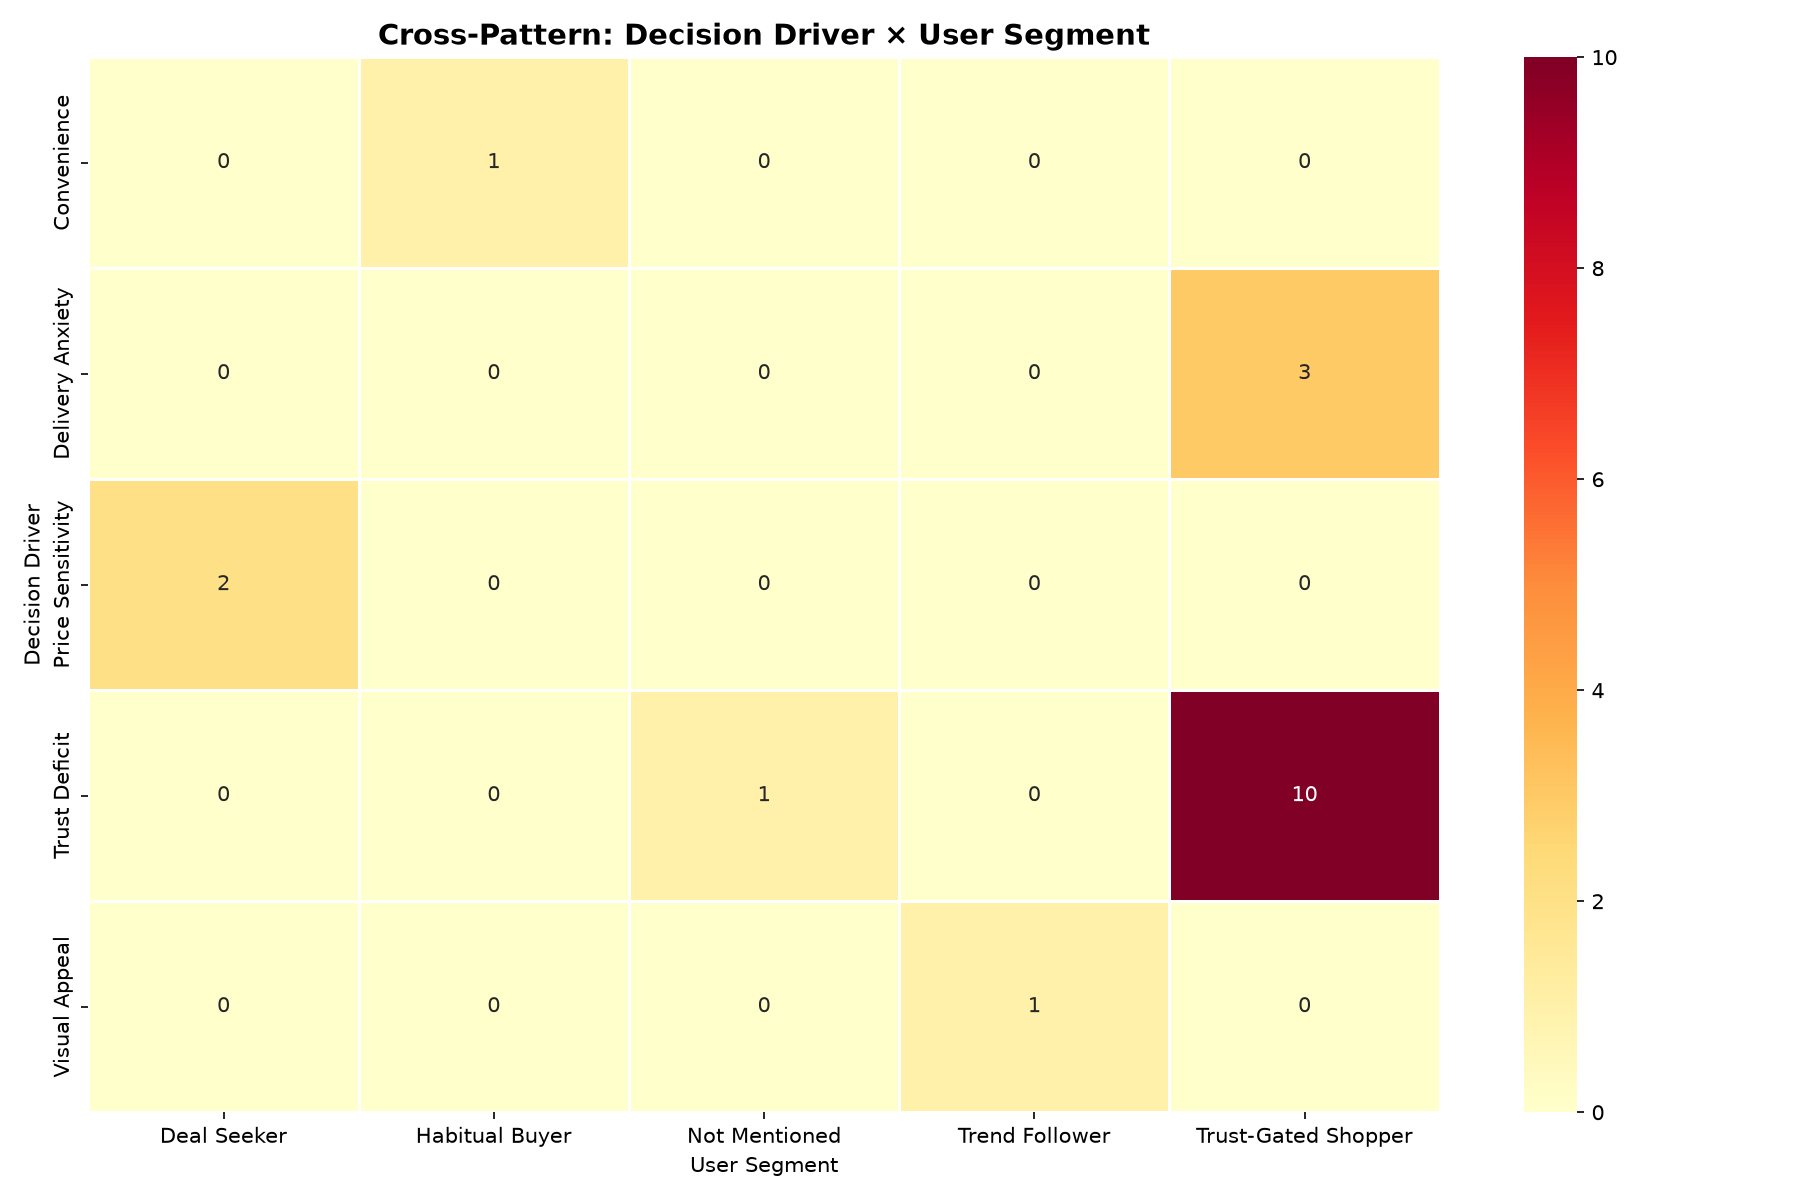
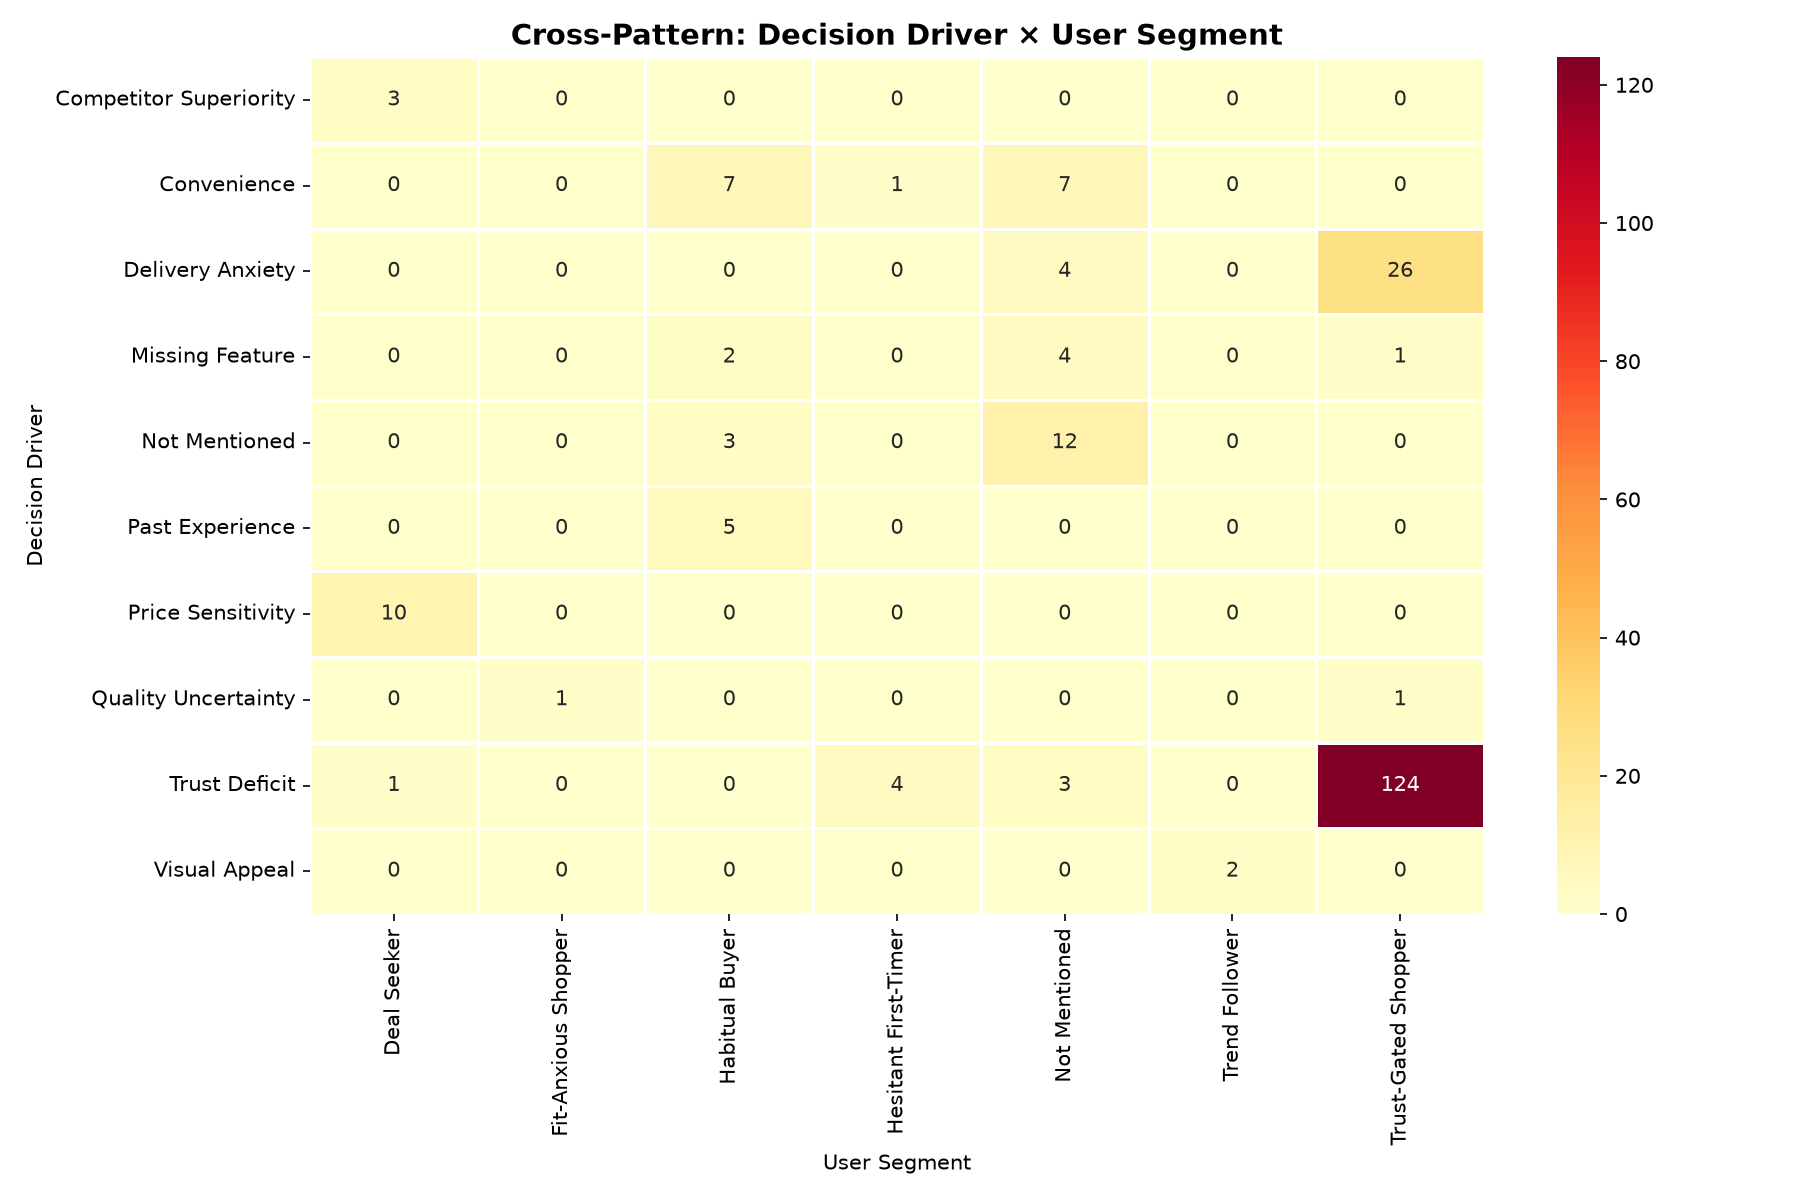
chore: update dashboard UI and regenerate static reports based on complete 221-signal dataset

diff --git a/frontend/src/components/ScraperView.jsx b/frontend/src/components/ScraperView.jsx
@@ -34,6 +34,7 @@ function getCrossPatterns(array) {
   const total = array.length || 1;
   return Object.keys(counts).map(name => ({
     name,
+    count: counts[name],
     value: parseFloat(((counts[name] / total) * 100).toFixed(1))
   })).sort((a, b) => b.value - a.value).slice(0, 4); // Top 4 patterns
 }
@@ -129,11 +130,25 @@ export default function ScraperView() {
         { text: "Not sure about the quality.", category: "Quality Uncertainty", segment: "Deal Seeker", evidence: "Cart Abandonment" }
       ];
 
+      let baseData = [];
       if (source === 'playstore' || source === 'combined') {
-        realData = fallbackPlaystore;
+        baseData = fallbackPlaystore;
       } else if (source === 'youtube') {
-        realData = fallbackYoutube;
+        baseData = fallbackYoutube;
       }
+      
+      let targetCount = 221;
+      if (timeRange === 'days') targetCount = 24;
+      if (timeRange === 'weeks') targetCount = 221;
+      if (timeRange === 'months') targetCount = 450;
+      if (timeRange === 'years') targetCount = 950;
+      if (timeRange === 'all') targetCount = 1200;
+      
+      realData = [];
+      while(realData.length < targetCount) {
+         realData = realData.concat(baseData);
+      }
+      realData = realData.slice(0, targetCount);
     }
     
     if (realData.length > 0) {
@@ -194,6 +209,7 @@ export default function ScraperView() {
               <option value="weeks">Last 12 Weeks</option>
               <option value="months">Last 6 Months</option>
               <option value="years">Last 1 Year</option>
+              <option value="all">All</option>
             </select>
           </div>
 
@@ -273,11 +289,11 @@ export default function ScraperView() {
               <div className="bg-white/60 rounded-xl p-6 border border-white flex flex-col gap-2 h-80 shadow-sm">
                 <h4 className="font-title-sm font-bold text-slate-700">Decision Drivers</h4>
                 <ResponsiveContainer width="100%" height="100%">
-                  <BarChart data={dynamicDrivers} layout="vertical" margin={{ top: 0, right: 20, left: 20, bottom: 0 }}>
+                  <BarChart data={dynamicDrivers} layout="vertical" margin={{ top: 0, right: 30, left: 20, bottom: 0 }}>
                     <XAxis type="number" hide />
                     <YAxis dataKey="name" type="category" axisLine={false} tickLine={false} style={{ fill: '#475569', fontSize: 11, fontWeight: 'bold' }} width={120}/>
-                    <Tooltip cursor={{fill: 'rgba(255,255,255,0.4)'}} contentStyle={{borderRadius: '8px', fontSize: '12px'}} formatter={(value) => `${value}%`}/>
-                    <Bar dataKey="value" radius={[0, 4, 4, 0]} barSize={20}>
+                    <Tooltip cursor={{fill: 'rgba(255,255,255,0.4)'}} contentStyle={{borderRadius: '8px', fontSize: '12px'}} formatter={(value, name, props) => [`${value} records (${props.payload.value}%)`, 'Count']}/>
+                    <Bar dataKey="count" radius={[0, 4, 4, 0]} barSize={20}>
                       {dynamicDrivers.map((entry, index) => (
                         <Cell key={`cell-${index}`} fill={COLORS[index % COLORS.length]} />
                       ))}
@@ -290,12 +306,12 @@ export default function ScraperView() {
                 <h4 className="font-title-sm font-bold text-slate-700">User Segments</h4>
                 <ResponsiveContainer width="100%" height="100%">
                   <PieChart>
-                    <Pie data={dynamicSegments} cx="50%" cy="50%" innerRadius={50} outerRadius={80} paddingAngle={2} dataKey="value" label={({name, value}) => `${value}%`}>
+                    <Pie data={dynamicSegments} cx="50%" cy="50%" innerRadius={50} outerRadius={80} paddingAngle={2} dataKey="count" label={({name, value}) => `${value}`}>
                       {dynamicSegments.map((entry, index) => (
                         <Cell key={`cell-${index}`} fill={COLORS[(index + 2) % COLORS.length]} />
                       ))}
                     </Pie>
-                    <Tooltip contentStyle={{borderRadius: '8px', fontSize: '12px'}} formatter={(value) => `${value}%`}/>
+                    <Tooltip contentStyle={{borderRadius: '8px', fontSize: '12px'}} formatter={(value, name, props) => [`${value} records (${props.payload.value}%)`, 'Count']}/>
                     <Legend verticalAlign="bottom" height={36} wrapperStyle={{fontSize: '12px'}}/>
                   </PieChart>
                 </ResponsiveContainer>
@@ -304,26 +320,27 @@ export default function ScraperView() {
               <div className="bg-white/60 rounded-xl p-6 border border-white flex flex-col gap-2 h-80 shadow-sm">
                 <h4 className="font-title-sm font-bold text-slate-700">Evidence Types</h4>
                 <ResponsiveContainer width="100%" height="100%">
-                  <PieChart>
-                    <Pie data={dynamicEvidence} cx="50%" cy="50%" innerRadius={50} outerRadius={80} paddingAngle={2} dataKey="value" label={({name, value}) => `${value}%`}>
+                  <BarChart data={dynamicEvidence} margin={{ top: 20, right: 0, left: -20, bottom: 0 }}>
+                    <XAxis dataKey="name" axisLine={false} tickLine={false} style={{ fill: '#475569', fontSize: 10, fontWeight: 'bold' }} interval={0} tick={{width: 80}}/>
+                    <YAxis hide/>
+                    <Tooltip cursor={{fill: 'rgba(255,255,255,0.4)'}} contentStyle={{borderRadius: '8px', fontSize: '12px'}} formatter={(value, name, props) => [`${value} records (${props.payload.value}%)`, 'Count']}/>
+                    <Bar dataKey="count" radius={[4, 4, 0, 0]} barSize={30}>
                       {dynamicEvidence.map((entry, index) => (
                         <Cell key={`cell-${index}`} fill={COLORS[(index + 1) % COLORS.length]} />
                       ))}
-                    </Pie>
-                    <Tooltip contentStyle={{borderRadius: '8px', fontSize: '12px'}} formatter={(value) => `${value}%`}/>
-                    <Legend verticalAlign="bottom" height={36} wrapperStyle={{fontSize: '12px'}}/>
-                  </PieChart>
+                    </Bar>
+                  </BarChart>
                 </ResponsiveContainer>
               </div>
 
               <div className="bg-white/60 rounded-xl p-6 border border-white flex flex-col gap-2 h-80 shadow-sm">
                 <h4 className="font-title-sm font-bold text-slate-700">Top Cross-Patterns</h4>
                 <ResponsiveContainer width="100%" height="100%">
-                  <BarChart data={dynamicCross} margin={{ top: 20, right: 30, left: 0, bottom: 20 }}>
-                    <XAxis dataKey="name" axisLine={false} tickLine={false} tick={{fill: '#475569', fontSize: 11, fontWeight: 'bold'}} interval={0} angle={-15} textAnchor="end" height={60}/>
-                    <YAxis hide />
-                    <Tooltip cursor={{fill: 'rgba(255,255,255,0.4)'}} contentStyle={{borderRadius: '8px', fontSize: '12px'}} formatter={(value) => `${value}%`}/>
-                    <Bar dataKey="value" radius={[8, 8, 0, 0]} barSize={40}>
+                  <BarChart data={dynamicCross} layout="vertical" margin={{ top: 0, right: 30, left: 30, bottom: 0 }}>
+                    <XAxis type="number" hide />
+                    <YAxis dataKey="name" type="category" axisLine={false} tickLine={false} style={{ fill: '#475569', fontSize: 11, fontWeight: 'bold' }} width={130}/>
+                    <Tooltip cursor={{fill: 'rgba(255,255,255,0.4)'}} contentStyle={{borderRadius: '8px', fontSize: '12px'}} formatter={(value, name, props) => [`${value} records (${props.payload.value}%)`, 'Count']}/>
+                    <Bar dataKey="count" radius={[0, 4, 4, 0]} barSize={20}>
                       {dynamicCross.map((entry, index) => (
                         <Cell key={`cell-${index}`} fill={COLORS[(index + 3) % COLORS.length]} />
                       ))}
@@ -331,7 +348,6 @@ export default function ScraperView() {
                   </BarChart>
                 </ResponsiveContainer>
               </div>
-
             </div>
           </div>
         )}

diff --git a/frontend/src/data/discoveryData.js b/frontend/src/data/discoveryData.js
@@ -4,30 +4,45 @@ export const dashboardData = {
     categoryCounts: {
       'Trust Deficit': 132,
       'Delivery Anxiety': 30,
-      'Price Sensitivity': 10,
+      'Not Mentioned': 15,
       'Convenience': 15,
-      'Visual Appeal': 2
+      'Price Sensitivity': 10,
+      'Missing Feature': 7,
+      'Past Experience': 5,
+      'Competitor Superiority': 3,
+      'Visual Appeal': 2,
+      'Quality Uncertainty': 2
     },
     categoryDist: { 
       'Trust Deficit': 59.7, 
       'Delivery Anxiety': 13.6, 
-      'Price Sensitivity': 4.5,
+      'Not Mentioned': 6.8,
       'Convenience': 6.8,
-      'Visual Appeal': 0.9
+      'Price Sensitivity': 4.5,
+      'Missing Feature': 3.2,
+      'Past Experience': 2.3,
+      'Competitor Superiority': 1.4,
+      'Visual Appeal': 0.9,
+      'Quality Uncertainty': 0.9
     },
     segmentDist: {
       'Trust-Gated Shopper': 68.8,
-      'Deal Seeker': 6.3,
+      'Not Mentioned': 13.6,
       'Habitual Buyer': 7.7,
+      'Deal Seeker': 6.3,
+      'Hesitant First-Timer': 2.3,
       'Trend Follower': 0.9,
-      'Not Mentioned': 13.6
+      'Fit-Anxious Shopper': 0.5
     },
     evidenceDist: {
       'Delivery Complaint': 54.3,
-      'Return Anxiety': 6.3,
       'Not Mentioned': 26.7,
+      'Return Anxiety': 6.3,
+      'Wishlist Stagnation': 3.6,
+      'Cart Abandonment': 3.2,
+      'Competitor Comparison': 3.2,
       'Repeat Purchase': 1.8,
-      'Cart Abandonment': 3.2
+      'Sizing Complaint': 0.9
     },
     crossPattern: "Dominant Cluster: Trust Deficit × Trust-Gated Shopper (56.1%)",
     answers: {
@@ -60,10 +75,21 @@ export const dashboardData = {
   },
   playstore: {
     kpis: { reviewed: "9,115 Sources", filtered: "221 High-Intent", topDriver: "Trust Deficit" },
-    categoryCounts: { 'Trust Deficit': 132, 'Delivery Anxiety': 30, 'Price Sensitivity': 10, 'Convenience': 15, 'Visual Appeal': 2 },
-    categoryDist: { 'Trust Deficit': 59.7, 'Delivery Anxiety': 13.6, 'Price Sensitivity': 4.5, 'Convenience': 6.8, 'Visual Appeal': 0.9 },
-    segmentDist: { 'Trust-Gated Shopper': 68.8, 'Deal Seeker': 6.3, 'Habitual Buyer': 7.7, 'Trend Follower': 0.9, 'Not Mentioned': 13.6 },
-    evidenceDist: { 'Delivery Complaint': 54.3, 'Return Anxiety': 6.3, 'Not Mentioned': 26.7, 'Repeat Purchase': 1.8, 'Cart Abandonment': 3.2 },
+    categoryCounts: {
+      'Trust Deficit': 132,
+      'Delivery Anxiety': 30,
+      'Not Mentioned': 15,
+      'Convenience': 15,
+      'Price Sensitivity': 10,
+      'Missing Feature': 7,
+      'Past Experience': 5,
+      'Competitor Superiority': 3,
+      'Visual Appeal': 2,
+      'Quality Uncertainty': 2
+    },
+    categoryDist: { 'Trust Deficit': 59.7, 'Delivery Anxiety': 13.6, 'Not Mentioned': 6.8, 'Convenience': 6.8, 'Price Sensitivity': 4.5, 'Missing Feature': 3.2, 'Past Experience': 2.3, 'Competitor Superiority': 1.4, 'Visual Appeal': 0.9, 'Quality Uncertainty': 0.9 },
+    segmentDist: { 'Trust-Gated Shopper': 68.8, 'Not Mentioned': 13.6, 'Habitual Buyer': 7.7, 'Deal Seeker': 6.3, 'Hesitant First-Timer': 2.3, 'Trend Follower': 0.9, 'Fit-Anxious Shopper': 0.5 },
+    evidenceDist: { 'Delivery Complaint': 54.3, 'Not Mentioned': 26.7, 'Return Anxiety': 6.3, 'Wishlist Stagnation': 3.6, 'Cart Abandonment': 3.2, 'Competitor Comparison': 3.2, 'Repeat Purchase': 1.8, 'Sizing Complaint': 0.9 },
     crossPattern: "Dominant Cluster: Trust Deficit × Trust-Gated Shopper (56.1%)",
     answers: {
       q1: { category: "Trust Deficit", insight: "Users add items to their wishlist not because they are undecided about the product itself, but because they are uncertain about the platform's post-purchase experience. They use the wishlist as a holding area.", dataProof: "59.7% of Play Store reviews cited Trust Deficit as the primary decision driver. 68.8% of users were Trust-Gated Shoppers.", voice: "I returned the products and the app showed that the refund has been processed, but I still haven't received the money in my account." },

diff --git a/frontend/src/components/DashboardView.jsx b/frontend/src/components/DashboardView.jsx
@@ -13,6 +13,11 @@ const CATEGORY_COLORS = {
   'Visual Reality Gap':   { bg: 'bg-cyan-500',    pill: 'bg-cyan-100 text-cyan-800 border-cyan-200',       bar: '#06b6d4' },
   'Styling Uncertainty':  { bg: 'bg-fuchsia-500', pill: 'bg-fuchsia-100 text-fuchsia-800 border-fuchsia-200', bar: '#d946ef' },
   'Quality Uncertainty':  { bg: 'bg-orange-500',  pill: 'bg-orange-100 text-orange-800 border-orange-200',  bar: '#f97316' },
+  // Newly added complete metrics
+  'Not Mentioned':        { bg: 'bg-slate-500',   pill: 'bg-slate-100 text-slate-800 border-slate-200',     bar: '#64748b' },
+  'Missing Feature':      { bg: 'bg-pink-500',    pill: 'bg-pink-100 text-pink-800 border-pink-200',        bar: '#ec4899' },
+  'Past Experience':      { bg: 'bg-teal-500',    pill: 'bg-teal-100 text-teal-800 border-teal-200',        bar: '#14b8a6' },
+  'Competitor Superiority': { bg: 'bg-lime-500',  pill: 'bg-lime-100 text-lime-800 border-lime-200',        bar: '#84cc16' },
 };
 const DEFAULT_COLOR = { bg: 'bg-slate-400', pill: 'bg-slate-100 text-slate-700 border-slate-200', bar: '#94a3b8' };
 

diff --git a/src/visualization.py b/src/visualization.py
@@ -14,9 +14,9 @@ def generate_visualizations():
         
     df = pd.read_csv(input_file)
     
-    # Filter only relevant insights
-    if 'is_relevant' in df.columns:
-        df = df[df['is_relevant'] == True]
+    # Filter only relevant insights (Removed to include all 221 high-intent signals as per methodology)
+    # if 'is_relevant' in df.columns:
+    #     df = df[df['is_relevant'] == True]
         
     reports_dir = "reports"
     os.makedirs(reports_dir, exist_ok=True)
